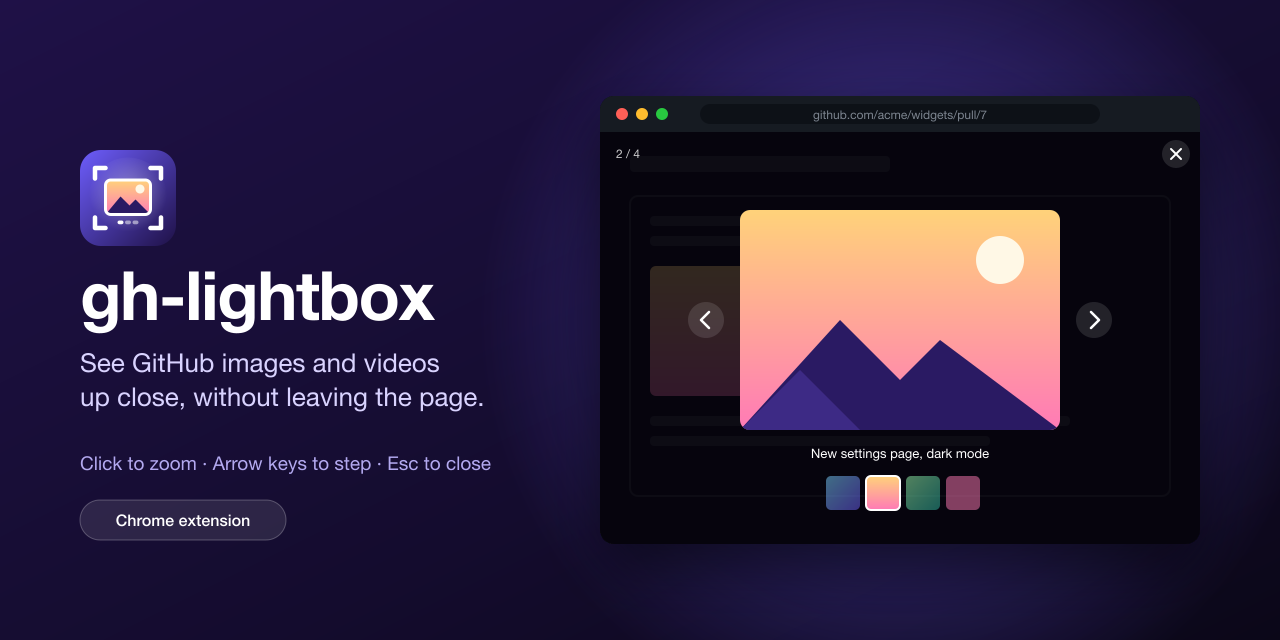
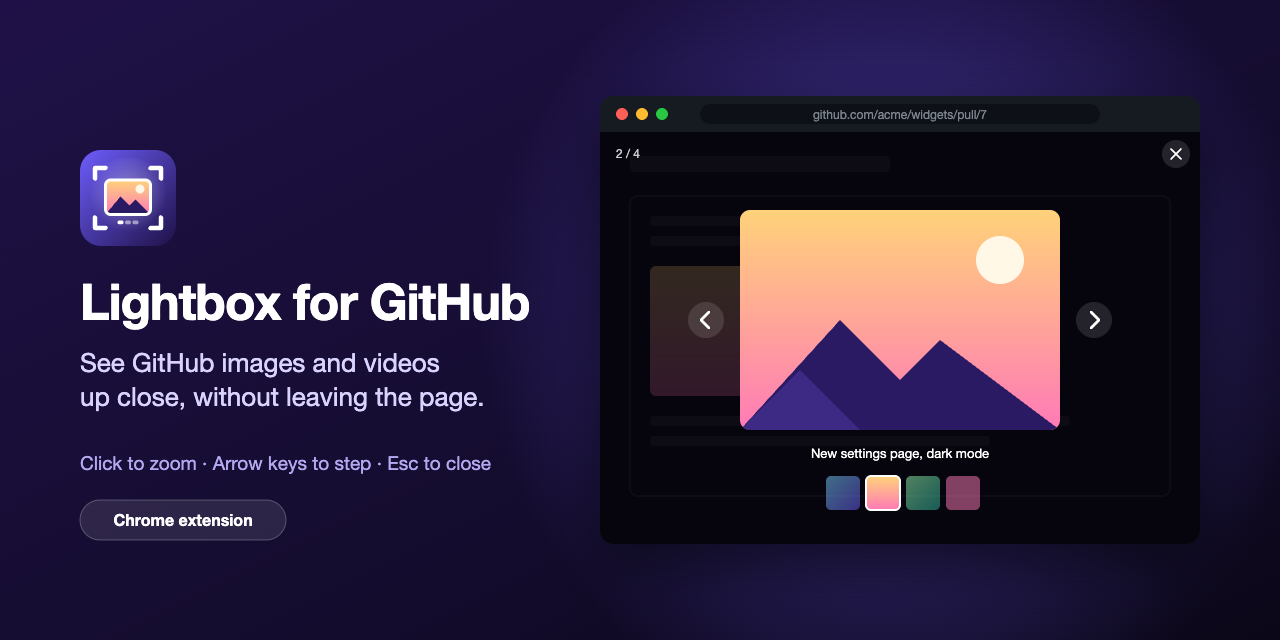
feat: prepare the extension for the Chrome Web Store (#10)
* feat: prepare the extension for the Chrome Web Store

Rename the extension to Lightbox for GitHub, add a homepage link,
an MIT license and a privacy policy. Add the store listing text,
screenshots and promo tile, and a package script that builds and
checks the store zip in CI and in the release workflow.

* fix: remove the zip when the package check fails

* feat: capture the store screenshots from CC0 photos and video

diff --git a/README.md b/README.md
@@ -1,16 +1,14 @@
-# gh-lightbox
+# Lightbox for GitHub
 
-![gh-lightbox: see GitHub images and videos up close, without leaving the page](docs/assets/banner.png)
+![Lightbox for GitHub: see GitHub images and videos up close, without leaving the page](docs/assets/banner.png)
 
 A Chrome extension. It opens images and videos from GitHub issues and pull requests in a full-screen lightbox on the same page.
 
 ## Install
 
-1. Open `chrome://extensions`.
-2. Turn on Developer mode.
-3. Click Load unpacked and pick the `extension/` folder.
+Install it from the Chrome Web Store. The store link comes with the first release there.
 
-Chrome 132 or newer is needed. The extension has no build step and no dependencies.
+Chrome 132 or newer is needed. The extension collects no data and asks for no permissions. `PRIVACY.md` has the details.
 
 ## Use
 
@@ -26,7 +24,13 @@ Cmd-click and Ctrl-click on an image still open a new tab. A click on a video st
 
 ## Develop
 
-You need Node. The extension itself does not.
+To run your local copy:
+
+1. Open `chrome://extensions`.
+2. Turn on Developer mode.
+3. Click Load unpacked and pick the `extension/` folder.
+
+The extension has no build step and no dependencies. You need Node for the tests only.
 
 ```
 npm install
@@ -35,6 +39,8 @@ npm test
 npm run e2e
 npm run verify:live
 npm run verify:lifecycle
+npm run package
+npm run store:assets
 ```
 
 - `npm run check` type-checks the `// @ts-check` sources with `tsc`.
@@ -42,8 +48,10 @@ npm run verify:lifecycle
 - `npm run e2e` loads the unpacked extension in Chromium on copies of GitHub pages.
 - `npm run verify:live` drives the public test issue and pull request on github.com, and saves screenshots and video to `.verify/`.
 - `npm run verify:lifecycle` checks every state of the lightbox lifecycle for galleries of 1 to 8 items.
+- `npm run package` builds `dist/gh-lightbox-v<version>.zip`, the file for the Chrome Web Store. It fails if the zip holds a file that does not belong.
+- `npm run store:assets` builds the store screenshots and promo tile in `store/`, and the README banner.
 
-CI runs `check`, `test`, `verify:lifecycle`, and `e2e` on every pull request, and checks that the manifest version matches `package.json`. It skips `verify:live`, which needs the public test pages.
+CI runs `check`, `test`, `verify:lifecycle`, `package`, and `e2e` on every pull request, and checks that the manifest version matches `package.json`. It skips `verify:live`, which needs the public test pages.
 
 Agents: `.claude/skills/verify-gh-lightbox` and `.claude/skills/verify-lightbox-lifecycle` describe how to prove a change.
 
@@ -51,4 +59,10 @@ Agents: `.claude/skills/verify-gh-lightbox` and `.claude/skills/verify-lightbox-
 
 Add a changeset to each pull request that changes the extension: run `npx changeset`, pick the bump, and describe the change. After a merge to `main`, the Release workflow opens a "chore: version packages" pull request. A merge of that pull request bumps the version in `package.json` and `extension/manifest.json`, updates `CHANGELOG.md`, pushes a `vX.Y.Z` tag, and creates a GitHub release. The release lists each change with its pull request and author, and holds the extension as a zip file.
 
+`store/listing.md` holds the Chrome Web Store listing text and the answers for the privacy tab.
+
 `docs/design.md` explains the design. `test/e2e/make-fixtures.sh` rebuilds the test media with ffmpeg.
+
+## License
+
+MIT. See `LICENSE`.

diff --git a/store/listing.md b/store/listing.md
@@ -1,0 +1,71 @@
+# Chrome Web Store listing
+
+This file holds the text for the Chrome Web Store dashboard. Copy each part into its field. Change the listing here first, so a pull request reviews it.
+
+## Store listing tab
+
+**Name** comes from `extension/manifest.json`: Lightbox for GitHub.
+
+**Summary** comes from the manifest `description` (132 characters maximum).
+
+**Category:** Developer Tools.
+
+**Language:** English.
+
+**Description:**
+
+```text
+See the images and videos in GitHub issues and pull requests up close, without leaving the page.
+
+Click an image in a comment. It grows into a full-screen lightbox from its place on the page. Close it, and it shrinks back.
+
+- Click an image to open it. Cmd-click and Ctrl-click still open a new tab.
+- Point at a video and click the expand button to open it. The video keeps its time.
+- Press the left and right arrow keys to move through the media of a comment.
+- Click a thumbnail to jump to it.
+- Press Escape, click the X, or click the background to close.
+
+The extension runs only on github.com. It collects no data, sends nothing to any server, and asks for no permissions.
+
+Open source: https://github.com/brunojppb/gh-lightbox
+```
+
+**Icon:** `extension/icons/icon-128.png`.
+
+**Screenshots** (1280x800): `store/screenshots/*.png`, in file name order.
+
+**Small promo tile** (440x280): `store/promo-tile.png`.
+
+**Homepage URL:** https://github.com/brunojppb/gh-lightbox
+
+**Support URL:** https://github.com/brunojppb/gh-lightbox/issues
+
+`npm run store:assets` builds the screenshots, the promo tile, and the README banner again. It needs network, because it captures the showcase comment on the demo pull request. `store/CREDITS.md` lists the source and author of each photo and video in that comment.
+
+## Privacy tab
+
+**Single purpose:**
+
+```text
+Opens the images and videos in GitHub issues and pull requests in a lightbox on the same page.
+```
+
+**Permission justification.** The manifest asks for no permissions. The content script and the web accessible resources match `https://github.com/*` only. If the dashboard asks about host access, use this text:
+
+```text
+The content script runs on github.com to find the images and videos in issue and pull request comments, and to show them in a lightbox. It runs on no other site.
+```
+
+**Remote code:** No. Every script ships in the package.
+
+**Data usage:** tick no data type. Tick all three statements: no sale of data, no use for other purposes, and no use for credit checks.
+
+**Privacy policy URL:** https://github.com/brunojppb/gh-lightbox/blob/main/PRIVACY.md
+
+## Distribution tab
+
+**Visibility:** Public. **Regions:** All regions.
+
+## Package
+
+`npm run package` builds `dist/gh-lightbox-v<version>.zip`. Each GitHub release has the same zip. Upload that file. The store needs a higher version for each upload, and Changesets raises the version.

diff --git a/store/CREDITS.md b/store/CREDITS.md
@@ -1,0 +1,18 @@
+# Credits for the store screenshots
+
+The screenshots in `store/screenshots/` show photos and a video from the showcase comment on the demo pull request:
+
+https://github.com/brunojppb/gh-lightbox/pull/2
+
+Every file is CC0 (public domain) on Wikimedia Commons. CC0 needs no credit, but the authors deserve it.
+
+| Media | Author | Source |
+| --- | --- | --- |
+| Northern lights over Lofoten | Johannes Groll | https://commons.wikimedia.org/wiki/File:Lofoten,_Norway_(Unsplash).jpg |
+| Matterhorn at sunset | Sam Ferrara | https://commons.wikimedia.org/wiki/File:Matterhorn_sunset_2016_(Unsplash).jpg |
+| Arctic fox in Iceland | Jonatan Pie | https://commons.wikimedia.org/wiki/File:Vulpes_lagopus_in_Iceland.jpg |
+| Marmolada, Italy | Marco Bonomo | https://commons.wikimedia.org/wiki/File:Marmolada,_Italy.jpg |
+| A hiker above the valley | David Marcu | https://commons.wikimedia.org/wiki/File:Alone_in_the_unspoilt_wilderness_(Unsplash).jpg |
+| Beach sunset in Libreville (video) | In Old News | https://commons.wikimedia.org/wiki/File:Sunset_timelapse_on_the_beach_in_Libreville,_Gabon.webm |
+
+The photos on the demo pull request are 1920px wide copies. The video is a 10-second 720p MP4 cut from the source. The cut starts at 4.5 seconds, so no person is near the camera.

diff --git a/PRIVACY.md b/PRIVACY.md
@@ -1,0 +1,13 @@
+# Privacy policy
+
+Lightbox for GitHub collects no data.
+
+- The extension runs only on pages at `https://github.com/`.
+- It reads the images and videos in the page to show them in the lightbox. The page already loaded that media.
+- It sends nothing to any server. It has no analytics and no tracking.
+- It stores nothing. It uses no cookies, no `chrome.storage`, and no browser storage.
+- It asks Chrome for no permissions.
+
+The source code is public: https://github.com/brunojppb/gh-lightbox
+
+Questions go to the issue tracker: https://github.com/brunojppb/gh-lightbox/issues

diff --git a/.changeset/chrome-web-store.md b/.changeset/chrome-web-store.md
@@ -1,0 +1,5 @@
+---
+"gh-lightbox": minor
+---
+
+Rename the extension to Lightbox for GitHub and add a homepage link, ready for the Chrome Web Store.
